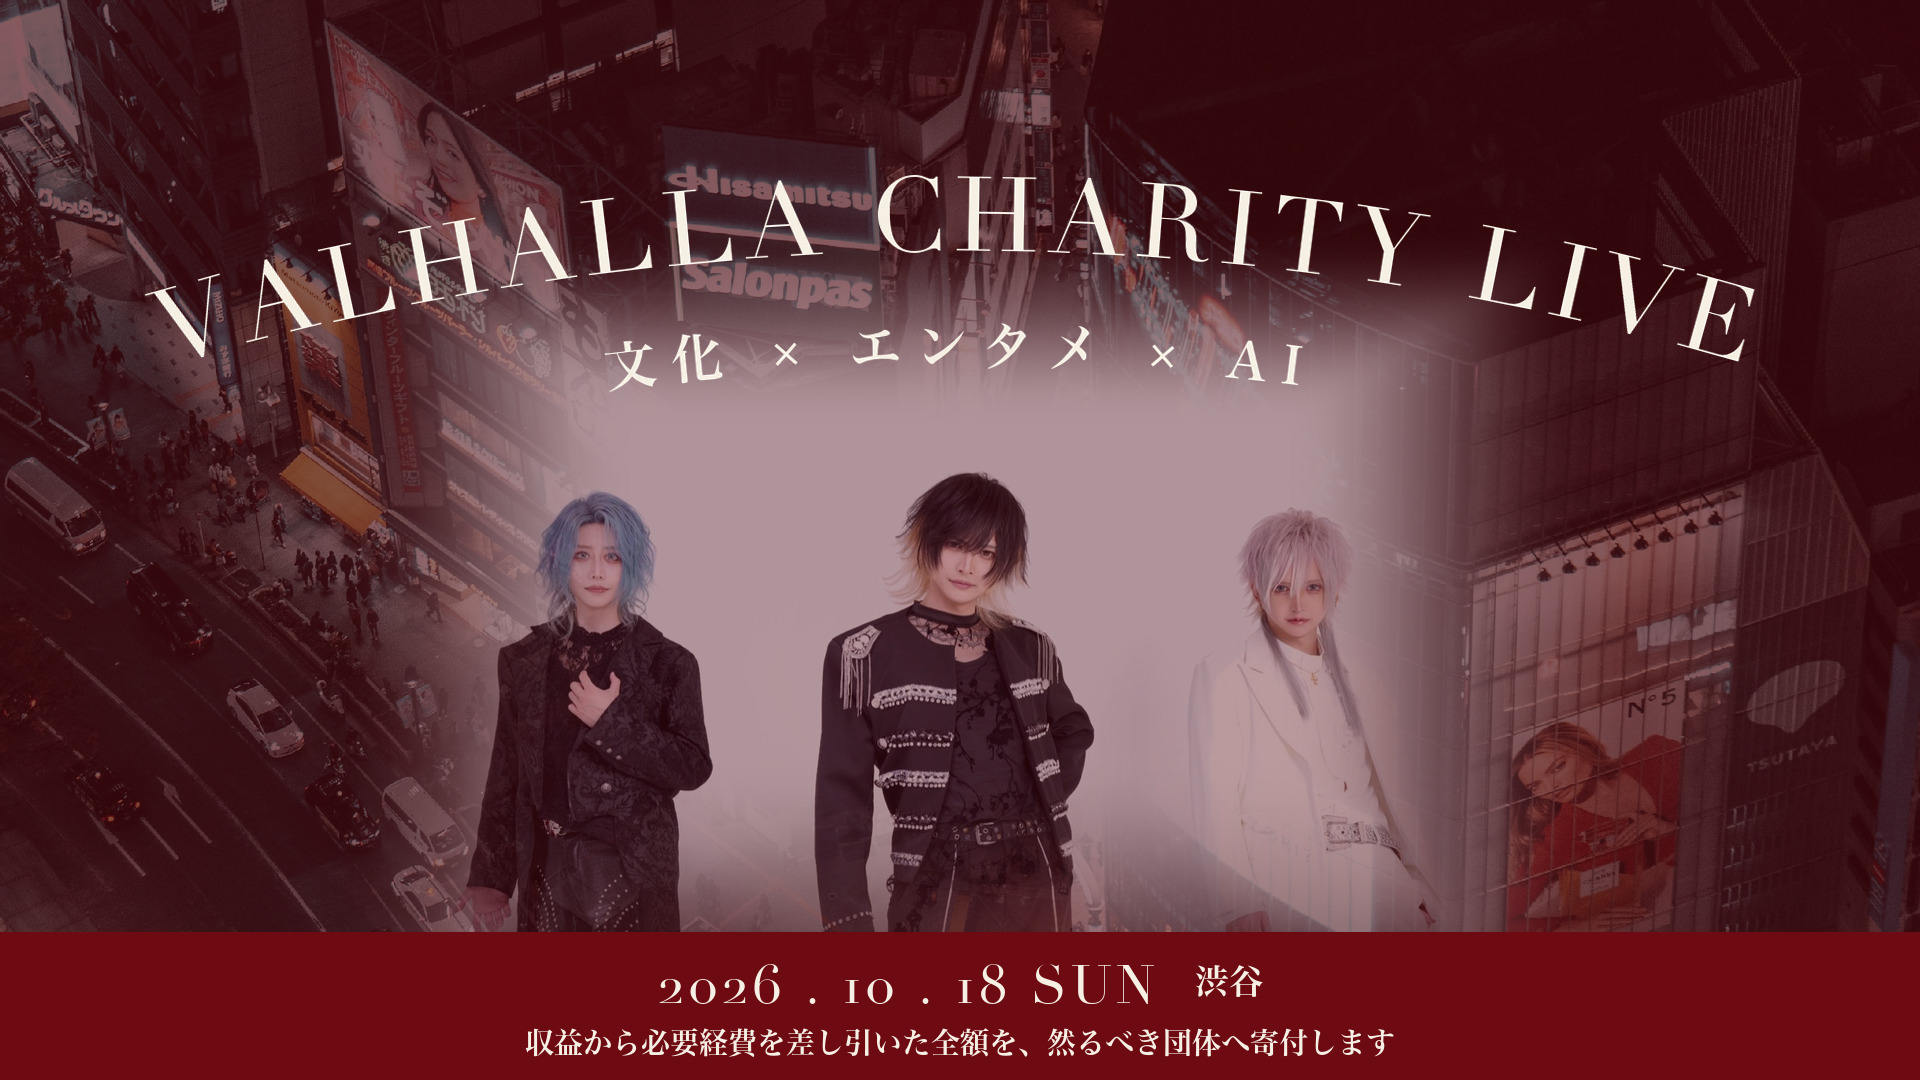
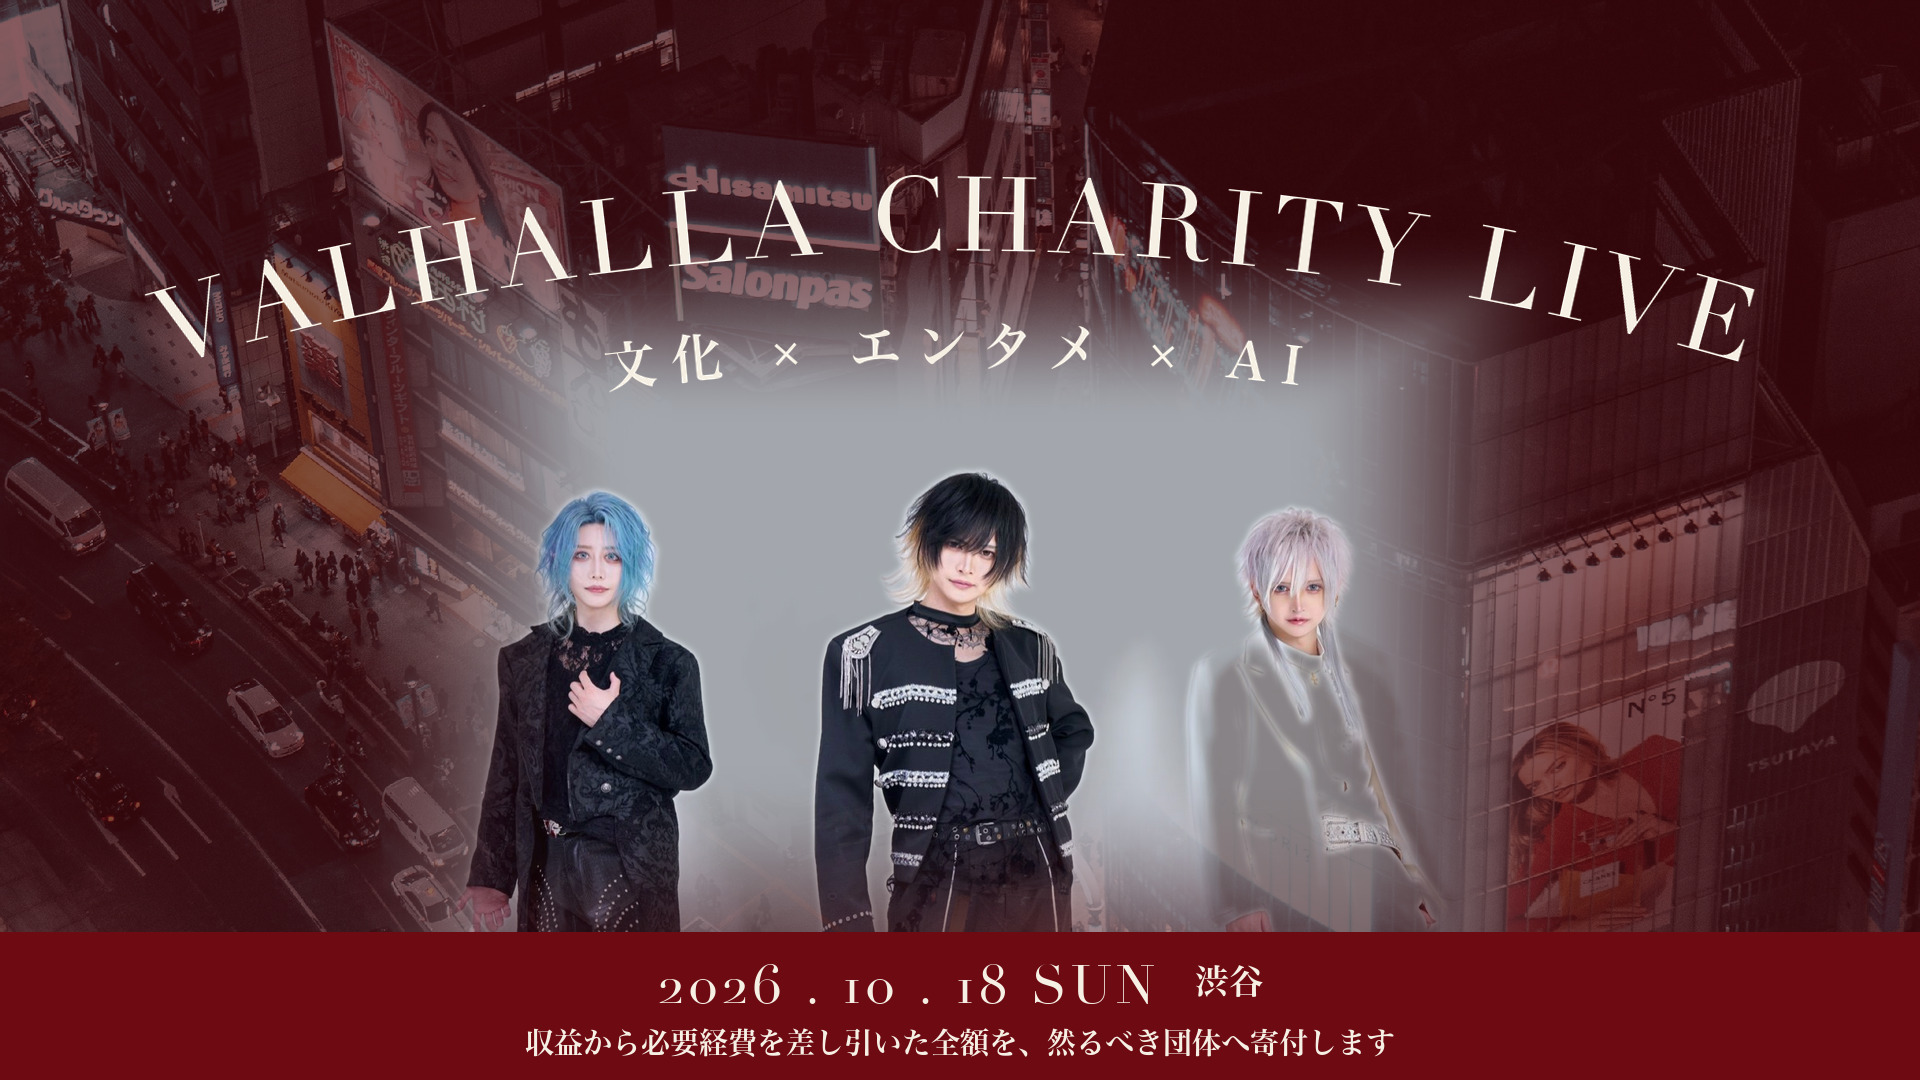
charity: take the red haze off the three of them
Tinting the whole photograph toward crimson to sink its white ground
also drained the blue hair, the black brocade and the white suit -- the
people came out under a red fog. The tint is now weighted by brightness,
so it only reaches the studio white, and it goes to a neutral dark
rather than crimson, which keeps the white-suited member in white
instead of turning him red. Saturation is nudged up to bring the colour
back.

Changed region(s): [[0.4062, 0.4278, 0.75, 0.8861], [0.25, 0.4583, 0.4062, 0.8861], [0.2188, 0.825, 0.2812, 0.8861]]

diff --git a/assets/charity/create_flyer_wide.py b/assets/charity/create_flyer_wide.py
@@ -15,7 +15,7 @@
 import math
 from pathlib import Path
 
-from PIL import Image, ImageDraw, ImageFilter, ImageFont
+from PIL import Image, ImageChops, ImageDraw, ImageEnhance, ImageFilter, ImageFont
 
 HERE = Path(__file__).resolve().parent
 MEMBERS = HERE / "members_white.jpg"
@@ -70,12 +70,20 @@ def members_panel() -> Image.Image:
             ay = min(1.0, y / fy, (ph - 1 - y) / (fy * 1.6))
             ay = ay * ay * (3 - 2 * ay)
             px[x, y] = round(255 * min(ax, ay))
-    # 白ホリゾントの白がそのままだと画面に白い塊ができるので、
-    # 背景と同じ暗いクリムゾン側へ寄せて、光が当たっているくらいに落とす。
-    tinted = Image.blend(panel.convert("RGB"),
-                         Image.new("RGB", panel.size, DARK_CRIMSON), 0.30)
-    tinted = Image.blend(tinted, Image.new("RGB", panel.size, BLACK), 0.16)
-    panel = tinted.convert("RGBA")
+    # 白ホリゾントの白だけを暗いクリムゾンへ寄せる。
+    # 写真全体を染めると人物の色（青髪・紫・白衣装）まで濁るので、
+    # **明るい画素ほど強く染まる**重みをかけて、白地だけを落とす。
+    rgb = panel.convert("RGB")
+    lum = rgb.convert("L")
+    weight = lum.point(lambda v: 0 if v < 224 else min(255, round((v - 224) * 255 / 30)))
+    weight = weight.filter(ImageFilter.GaussianBlur(3))
+    # 染める色はクリムゾンではなく暗いニュートラル。赤で染めると
+    # 白衣装まで赤くなり、写真全体に赤いモヤがかかったように見えるため。
+    tint = Image.new("RGB", rgb.size, (26, 20, 24))
+    rgb = Image.composite(Image.blend(rgb, tint, 0.52), rgb, weight)
+    # 人物の色は残したいので、彩度をわずかに上げて沈みを戻す
+    rgb = ImageEnhance.Color(rgb).enhance(1.14)
+    panel = rgb.convert("RGBA")
     panel.putalpha(mask.filter(ImageFilter.GaussianBlur(12)))
     return panel
 
